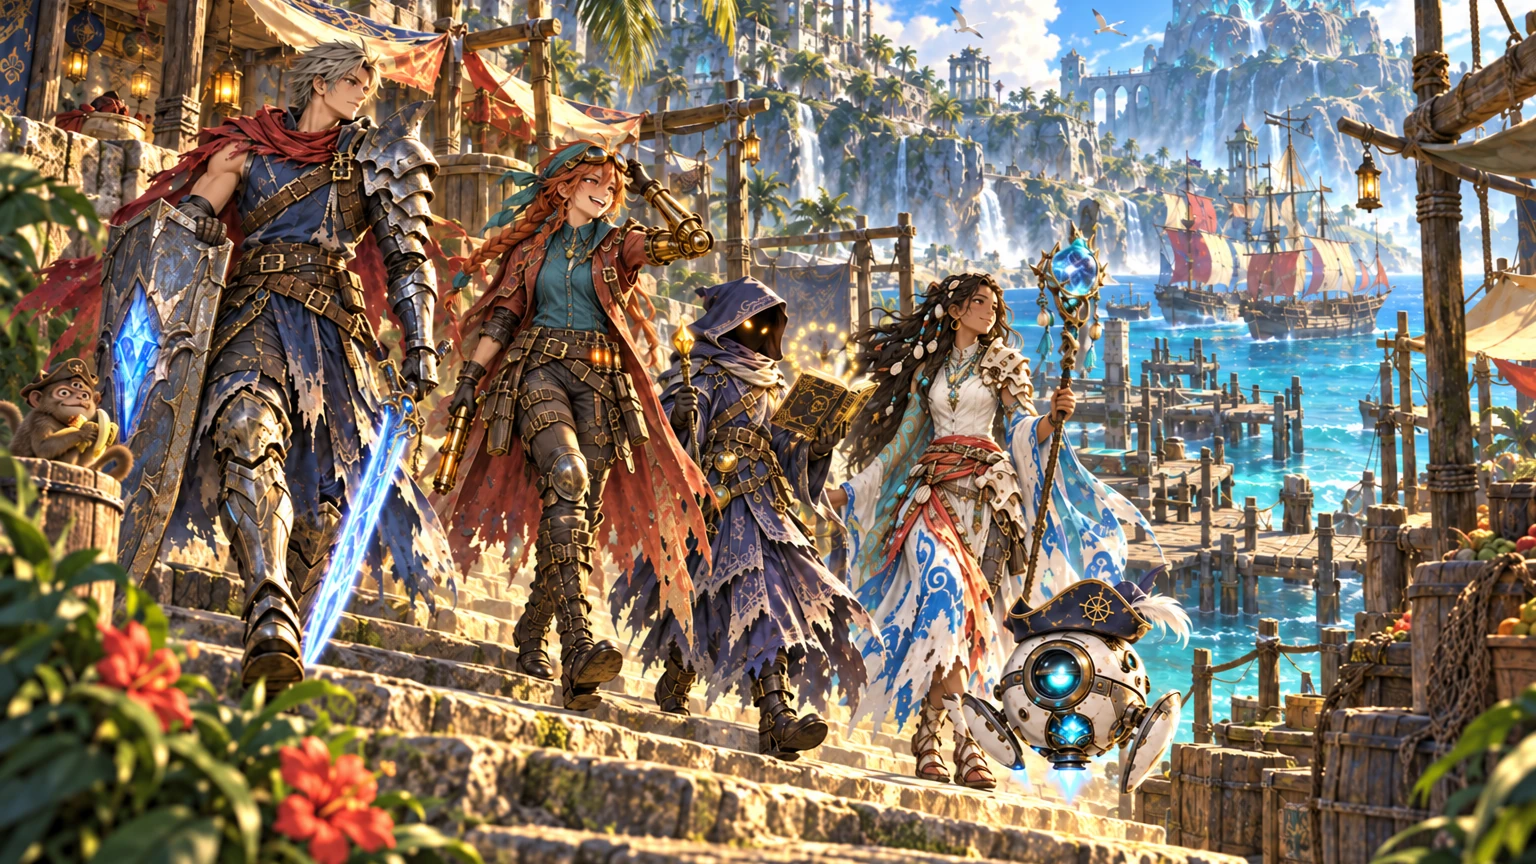
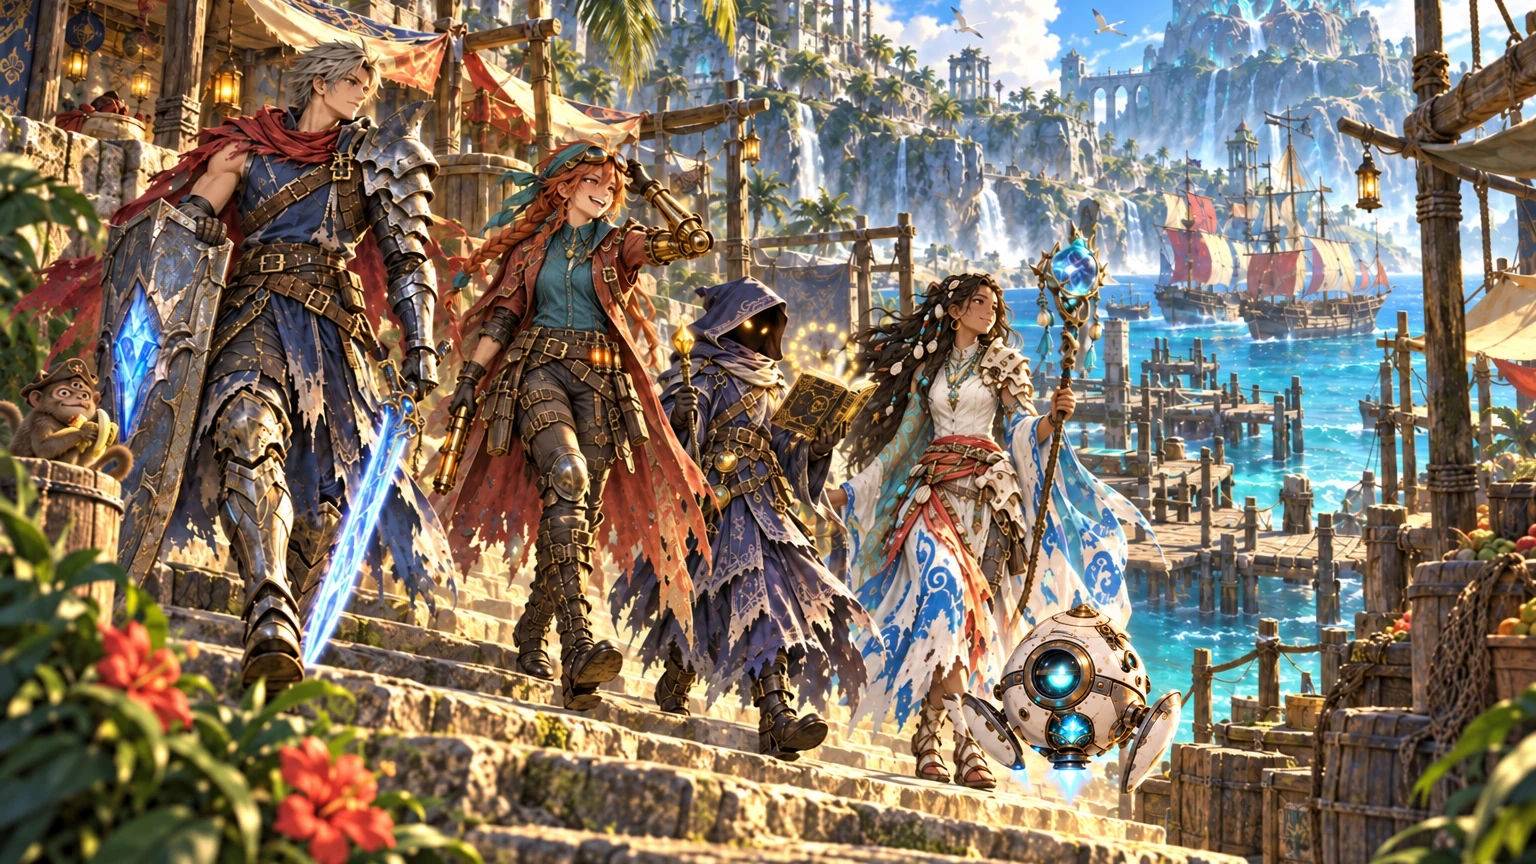
Art wave 11: Kit without its hat, painted by Codex and wired in
The field sprite, all six faces and the harbor arrival card, each scaled back
to the original canvas and lined up with the hatted body so the swap holds still.

Claude-Session: https://claude.ai/code/session_013AUSswktJ4Aash3oKghJFX

Changed region(s): [[0.6562, 0.6562, 0.7812, 0.875]]

diff --git a/test/chapter2.test.js b/test/chapter2.test.js
@@ -427,6 +427,8 @@ test("every chapter 2 line is approved text with a speaker, a portrait mood and 
   for (const id of Object.values(CARDS)) assert.ok(ASSETS[id]?.base?.src, `story card ${id}`);
   // wave 09: Kit's tea cozy on the field, and the baby moth by the menagerie's tanks
   assert.ok(ASSETS.tutor_droid.field_cozy?.src, "Kit's field picture in the tea cozy");
+  // wave 11: Kit with no hat, from Pockets' theft to Hal's shop
+  assert.ok(ASSETS.tutor_droid.field_hatless?.src && ASSETS.tutor_droid.portraits_hatless?.src, "Kit with no hat");
   assert.ok(ASSETS.pet_moth_1?.battle?.src, "the baby Wick Moth");
 });
 

diff --git a/art/waves/wave-11-kit-hatless.md b/art/waves/wave-11-kit-hatless.md
@@ -4,7 +4,7 @@ At the end of chapter 1, Pockets steals Kit's tricorn ("Hey! My hat!"). Kit used
 
 Follow [`../PRODUCTION.md`](../PRODUCTION.md) and [`../STYLE.md`](../STYLE.md).
 
-**Status: written 17 October. Run through a Remote Control session on the parent's PC (Codex).**
+**Status: painted 17 October through Codex on the parent's PC, and wired in. Waiting for the parent's look.**
 
 **Work on `claude/hatless-kit-te8mqd` only.** Never push to `claude/busy-einstein-52yr07` or `main`: a push there redeploys the game the kids play.
 
@@ -22,7 +22,7 @@ Where the hat was, show the top of Kit's round body: the same weathered white ce
 
 ## Section A: Kit on the field
 
-### ☐ `tutor_droid`, `field_hatless.webp`
+### ☑ `tutor_droid`, `field_hatless.webp`
 
 An edit of `base.webp` (the edit target). Same canvas (`901x1024`) and anchor as `base`.
 
@@ -34,7 +34,7 @@ Save to `characters/tutor_droid/field_hatless.webp`, and add `field_hatless` to 
 
 ## Section B: Kit's faces
 
-### ☐ `tutor_droid`, `portraits_hatless.webp`
+### ☑ `tutor_droid`, `portraits_hatless.webp`
 
 An edit of `portraits.webp`, one cell at a time (crop the 512×512 cell, edit it, paste it back in the same place), with `field_hatless.webp` attached as the reference for the dome. Same moods and layout as `portraits.webp`.
 
@@ -46,7 +46,7 @@ Save to `characters/tutor_droid/portraits_hatless.webp`, and add `portraits_hatl
 
 ## Section C: The harbor card
 
-### ☐ `story_harbor_arrival`
+### ☑ `story_harbor_arrival`
 
 The party walks into the harbor before Kit has the cozy, so Kit has no hat here. Edit only Kit: crop `x 896 to 1280, y 480 to 864`, edit the crop with `field_hatless.webp` as the reference, and paste it back, blending only around Kit's head.
 
@@ -59,3 +59,5 @@ Edit target: the first image, a crop of a painted story card. Change only the li
 ## Notes
 
 (Add a line here for anything flagged or skipped.)
+
+- 2026-10-17: all eight Codex jobs (the field sprite, six faces, the harbor crop) passed on the first attempt. Codex returned bigger canvases (1176x1337, 1254x1254); Claude scaled each back and lined its body up with the original's (width and bottom edge) so the swap doesn't jump. The tan-line ring is faint or missing, and the bare crown comes out a little taller and egg-shaped, with a brass cap, the same in every picture. Originals on the parent's PC in `Downloads\codex-images\wave-11-kit-hatless\out`.
